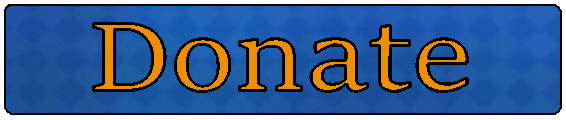
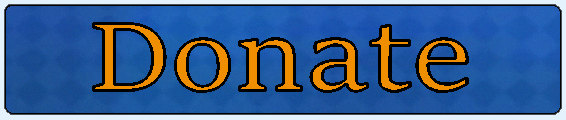
adjusting theme, donate pictures, and some button colors
Former-commit-id: c91f7b0b92a7b309589839f1a0a5761e25907302

Changed region(s): [[0.0, 0.0, 1.0, 1.0]]

diff --git a/src/pyclashbot/interface/layout.py b/src/pyclashbot/interface/layout.py
@@ -108,6 +108,7 @@ controls_layout = [
     ]
 ]
 
+
 account_switching_layout = [
     [
         sg.Frame(
@@ -139,6 +140,7 @@ account_switching_layout = [
     ]
 ]
 
+
 stats_tab_layout = [
     [
         sg.Column(
@@ -164,6 +166,7 @@ stats_tab_layout = [
     ]
 ]
 
+
 donate_button_layout_tab = [
     sg.Frame(
         layout=random.choice(DONATE_BUTTON_LAYOUTS),
@@ -172,6 +175,7 @@ donate_button_layout_tab = [
         expand_x=True,
     ),
 ]
+
 
 time_status_bar_layout = [
     sg.Column(
@@ -193,20 +197,6 @@ time_status_bar_layout = [
 ]
 
 
-# main_layout = [
-#     # controls + jobs list
-#     controls_layout,
-#     # account switching
-#     account_switching_layout,
-#     # stats
-#     stats_tab_layout,
-#     # donate button
-#     donate_button_layout_tab,
-#     # time+status bar
-#     time_status_bar_layout,
-# ]
-
-
 main_layout = [
     [
         # layout:List[List[Tab]]
@@ -219,15 +209,31 @@ main_layout = [
     ],
     [account_switching_layout],
     [
-        sg.Button("Start", expand_x=True, button_color="Lime Green"),
-        sg.Button("Stop", disabled=True, expand_x=True),
-        sg.Button("Pause", disabled=True, key="-Pause-Resume-Button-", expand_x=True),
+        sg.Button("Start", expand_x=True, button_color="Lime Green", border_width=3),
+        sg.Button("Stop", disabled=True, expand_x=True, border_width=2),
+        sg.Button(
+            "Pause",
+            disabled=True,
+            key="-Pause-Resume-Button-",
+            expand_x=True,
+            border_width=2,
+        ),
     ],
     [
-        sg.Button("Discord", key="discord", expand_x=True, button_color="#7289da"),
-        sg.Button("Upload Log", key="upload-log", expand_x=True),
         sg.Button(
-            "Report Bug", key="bug-report", expand_x=True, button_color="#FF0000"
+            "Discord",
+            key="discord",
+            expand_x=True,
+            button_color="#7289da",
+            border_width=2,
+        ),
+        sg.Button("Upload Log", key="upload-log", expand_x=True, border_width=2),
+        sg.Button(
+            "Report Bug",
+            key="bug-report",
+            expand_x=True,
+            button_color="#FF0000",
+            border_width=2,
         ),
     ],
     [donate_button_layout_tab],

diff --git a/src/pyclashbot/interface/theme.py b/src/pyclashbot/interface/theme.py
@@ -1,4 +1,16 @@
 import PySimpleGUI as sg
+import random
 
-THEME = "SystemDefaultForReal"
+# THEME = "SystemDefaultForReal"
+THEME ='Material1'
+# THEME ='Material2'
+# THEME ='reddit'
+
+
+print('\n',THEME)
 sg.theme(THEME)
+
+
+#Material1
+#Material2
+#reddit
